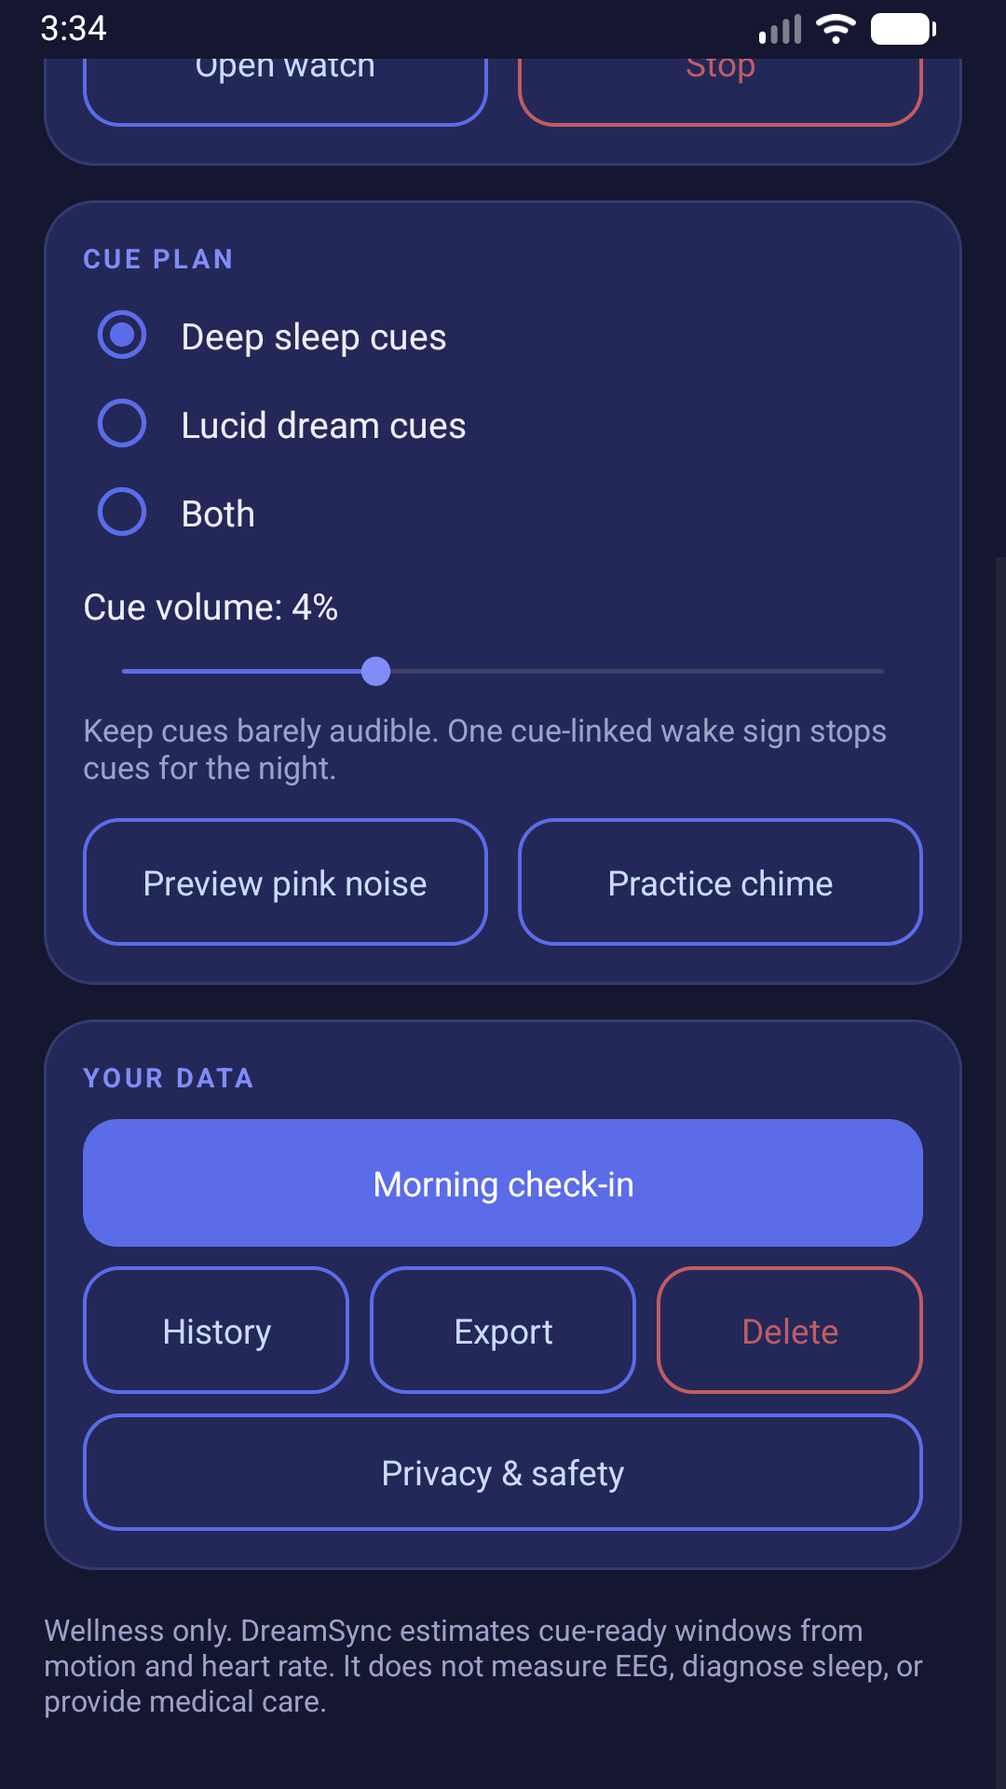
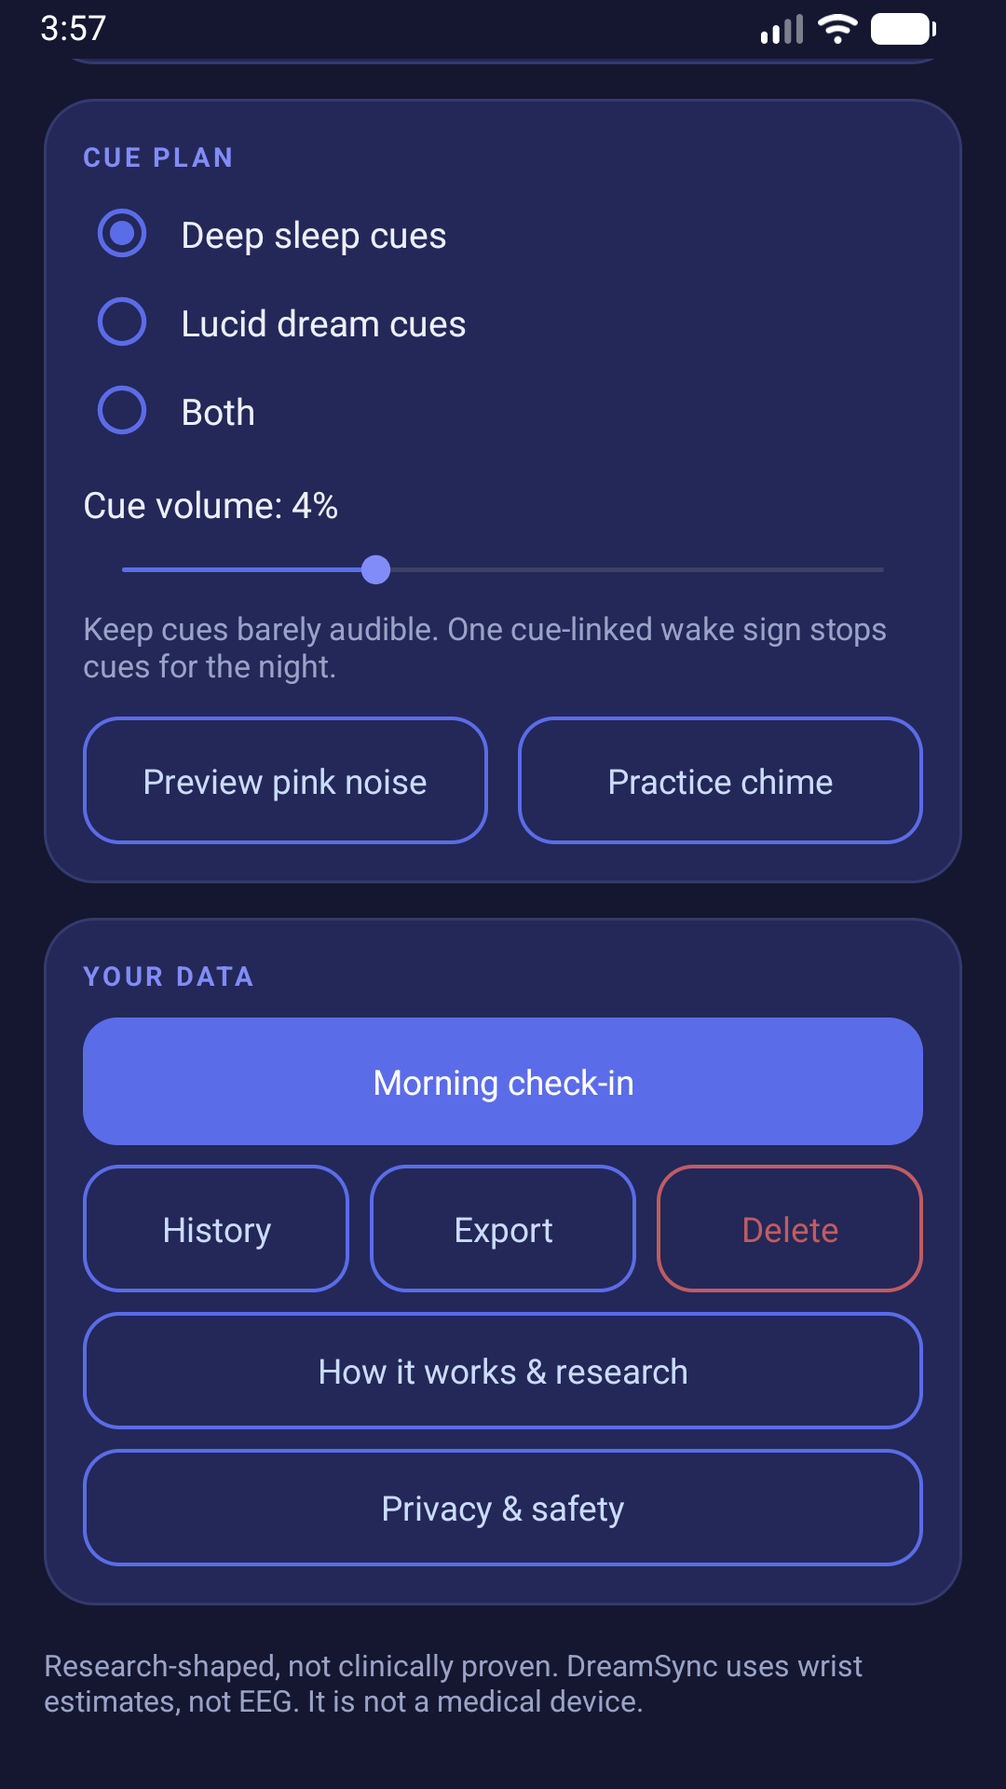
release: add science-based marketing and disclosures

Changed region(s): [[0.0306, 0.0, 0.9778, 0.9688], [0.9472, 0.8438, 0.9778, 0.875]]

diff --git a/phone/src/main/java/com/remote/DreamSync/MainActivity.java b/phone/src/main/java/com/remote/DreamSync/MainActivity.java
@@ -11,12 +11,15 @@ import android.content.pm.PackageManager;
 import android.net.Uri;
 import android.os.Build;
 import android.os.Bundle;
+import android.text.Html;
 import android.text.InputType;
+import android.text.method.LinkMovementMethod;
 import android.view.ViewGroup;
 import android.widget.Button;
 import android.widget.EditText;
 import android.widget.LinearLayout;
 import android.widget.RadioGroup;
+import android.widget.ScrollView;
 import android.widget.SeekBar;
 import android.widget.TextView;
 
@@ -120,6 +123,7 @@ public final class MainActivity extends Activity {
         findViewById(R.id.historyButton).setOnClickListener(v -> showHistory());
         findViewById(R.id.exportButton).setOnClickListener(v -> prepareExport());
         findViewById(R.id.deleteDataButton).setOnClickListener(v -> confirmDeleteAll());
+        findViewById(R.id.scienceButton).setOnClickListener(v -> showScience());
         findViewById(R.id.privacyButton).setOnClickListener(v -> showPrivacyAndSafety());
     }
 
@@ -541,13 +545,51 @@ public final class MainActivity extends Activity {
                 .getBoolean("onboarding_seen", false)) return;
         new AlertDialog.Builder(this)
                 .setTitle("Welcome to DreamSync")
-                .setMessage("DreamSync estimates cue-ready windows from wrist motion and heart rate. "
-                        + "It does not measure EEG, diagnose sleep, guarantee deeper sleep, induce lucid dreams, "
-                        + "or provide medical care. Stop if cues disturb sleep or cause adverse effects. Data stays local unless you export it.")
+                .setMessage("DreamSync is an adult wellness app that estimates conservative cue-ready windows from wrist motion and heart rate. "
+                        + "Its deep cue pattern is shaped by peer-reviewed EEG research, but DreamSync does not measure EEG or reproduce laboratory phase locking. "
+                        + "It is not a medical device and does not diagnose, treat, cure, or prevent any medical condition. "
+                        + "Stop if cues disturb sleep or cause adverse effects, and consult a qualified healthcare professional for medical advice. "
+                        + "Data stays local unless you export it.")
                 .setPositiveButton("I understand", (dialog, which) ->
                         getSharedPreferences(PREFS, MODE_PRIVATE).edit()
                                 .putBoolean("onboarding_seen", true).apply())
                 .setCancelable(false)
+                .show();
+    }
+
+    private void showScience() {
+        TextView content = new TextView(this);
+        int padding = (int) (20 * getResources().getDisplayMetrics().density);
+        content.setPadding(padding, padding, padding, padding);
+        content.setTextColor(getColor(R.color.ds_ice));
+        content.setLinkTextColor(getColor(R.color.ds_violet));
+        content.setTextSize(15f);
+        content.setLineSpacing(0f, 1.2f);
+        content.setMovementMethod(LinkMovementMethod.getInstance());
+        content.setText(Html.fromHtml(
+                "<b>What DreamSync does</b><br>"
+                        + "1. Your watch checks motion, heart-rate freshness, and time since estimated sleep onset.<br>"
+                        + "2. Cues are allowed only after a stable, low-motion period, from 25 to 145 minutes after estimated sleep onset.<br>"
+                        + "3. A deep cue is two 50 ms pink-noise bursts, 1.075 seconds apart, with 5 ms fades.<br>"
+                        + "4. Default deep mode requests no more than 12 paired cues. Any arousal sign starts a 20-minute quiet period. The first cue-linked wake sign stops cues for the night.<br><br>"
+                        + "<b>What the peer-reviewed study found</b><br>"
+                        + "In a randomized crossover laboratory study of 14 healthy young men, EEG phase-locked paired tones increased slow-oscillation power and amplitude without changing time spent in the measured sleep stages. About 172 paired stimulations were delivered on average across 120 minutes. Hormone analyses used 10 to 14 participants, and immune-cell results used a nine-person subset; growth hormone was unchanged. DreamSync does not measure or claim those outcomes.<br><br>"
+                        + "<b>The important difference</b><br>"
+                        + "The laboratory system used EEG, in-ear headphones, and sound calibrated to 50 dB SPL. DreamSync has no EEG, blocks headphone routes, and uses a user-calibrated phone speaker level rather than a laboratory SPL value. It copies the published acoustic pattern, not the phase-locking method. Open-loop research did not show a word-pair memory benefit and some participants noticed the sounds; this is why DreamSync uses fewer, barely audible cues and stops early when waking is detected.<br><br>"
+                        + "Lucid cues are a separate conditioning feature. These studies do not prove that DreamSync causes lucid dreams.<br><br>"
+                        + "<b>Peer-reviewed sources</b><br>"
+                        + "<a href=\"https://doi.org/10.1038/s41467-017-02170-3\">Besedovsky et al., Nature Communications (2017)</a><br>"
+                        + "<a href=\"https://doi.org/10.1016/j.neuron.2013.03.006\">Ngo et al., Neuron (2013)</a><br>"
+                        + "<a href=\"https://doi.org/10.1523/JNEUROSCI.3133-14.2015\">Ngo et al., Journal of Neuroscience (2015)</a><br>"
+                        + "<a href=\"https://doi.org/10.1111/ejn.13334\">Weigenand et al., European Journal of Neuroscience (2016)</a><br><br>"
+                        + "<b>Safety</b><br>DreamSync is not a medical device and does not diagnose, treat, cure, or prevent any medical condition. Consult a qualified healthcare professional for medical advice, diagnosis, or treatment.",
+                Html.FROM_HTML_MODE_LEGACY));
+        ScrollView scroll = new ScrollView(this);
+        scroll.addView(content);
+        new AlertDialog.Builder(this)
+                .setTitle("How DreamSync works")
+                .setView(scroll)
+                .setPositiveButton("Done", null)
                 .show();
     }
 
@@ -557,7 +599,9 @@ public final class MainActivity extends Activity {
                 .setMessage("DreamSync uses motion and heart-rate readings from your watch only to estimate cue-ready windows during a night session. "
                         + "Session history, cue events, check-ins, and dream notes stay on your devices unless you choose Export. "
                         + "DreamSync has no account, ads, analytics, or automatic cloud upload. You can export or delete your data at any time.\n\n"
-                        + "Wellness only: DreamSync does not measure EEG, diagnose sleep, treat a medical condition, or guarantee results. Stop using it if cues disturb your sleep.")
+                        + "Wellness only: DreamSync does not measure EEG or guarantee deeper sleep, memory, immune, or lucid-dream outcomes. "
+                        + "It is not a medical device and does not diagnose, treat, cure, or prevent any medical condition. "
+                        + "Stop using it if cues disturb your sleep, and consult a qualified healthcare professional for medical advice, diagnosis, or treatment.")
                 .setPositiveButton("Done", null)
                 .show();
     }

diff --git a/wear/src/main/java/com/remote/DreamSync/SessionConfig.java b/wear/src/main/java/com/remote/DreamSync/SessionConfig.java
@@ -17,13 +17,13 @@ final class SessionConfig {
     int deepEndMin = 145;
     int remStartMin = 255;
     int sessionEndMin = 510;
-    int deepStableMin = 8;
-    int remStableMin = 3;
-    int deepCueIntervalSec = 15;
-    int deepCuesPerBlock = 8;
+    int deepStableMin = 10;
+    int remStableMin = 5;
+    int deepCueIntervalSec = 30;
+    int deepCuesPerBlock = 6;
     int maxDeepBlocks = 2;
-    int lucidCueIntervalSec = 90;
-    int maxLucidCues = 3;
+    int lucidCueIntervalSec = 180;
+    int maxLucidCues = 2;
 
     static SessionConfig fromJson(String json) {
         SessionConfig config = new SessionConfig();
@@ -59,7 +59,7 @@ final class SessionConfig {
         phoneNodeId = safeIdentifier(phoneNodeId);
         watchNodeId = safeIdentifier(watchNodeId);
         mode = sanitizeMode(mode);
-        cueGain = clampFloat(cueGain, 0.005f, 0.20f);
+        cueGain = clampFloat(cueGain, 0.005f, 0.10f);
         deepStartMin = clampInt(deepStartMin, 10, 120);
         deepEndMin = clampInt(deepEndMin, 60, 300);
         remStartMin = clampInt(remStartMin, 180, 420);

diff --git a/phone/src/main/java/com/remote/DreamSync/CuePlaybackService.java b/phone/src/main/java/com/remote/DreamSync/CuePlaybackService.java
@@ -191,7 +191,7 @@ public final class CuePlaybackService extends Service
     }
 
     private float clampGain(float gain) {
-        return Math.max(0.005f, Math.min(0.20f, gain));
+        return Math.max(0.005f, Math.min(0.10f, gain));
     }
 
     private void startAsForeground() {

diff --git a/docs/play-store/STORE_LISTING.md b/docs/play-store/STORE_LISTING.md
@@ -12,22 +12,39 @@
 
 ## Short description
 
-Sleep-first cues that stop at a wake sign, with private on-device data.
+Sleep-first cues shaped by peer-reviewed studies, with private on-device data.
 
 ## Full description
 
-DreamSync pairs your Android phone with a Wear OS watch to deliver quiet sleep cues during conservative cue-ready windows. Protecting your sleep always takes priority over delivering a cue.
+DreamSync pairs your Android phone with a Wear OS watch to deliver quiet, research-shaped sleep cues during conservative cue-ready windows. Protecting your sleep always takes priority over delivering a cue.
 
-Choose deep sleep cues, lucid dream cues, or both. Set a barely audible volume, open DreamSync on your watch, and start the night. The watch uses motion and heart-rate signals to estimate when cues may be less disruptive. Any arousal sign starts a 20-minute quiet period. The first cue-linked wake sign stops further cues for the night.
+HOW IT WORKS
 
-Deep cues use two brief pink-noise bursts based on published auditory sleep research. DreamSync does not use EEG and cannot reproduce laboratory phase locking, so it makes no sleep-stage or treatment claim.
+Your watch checks motion, heart-rate freshness, and time since estimated sleep onset. DreamSync waits for a stable, low-motion period from 25 to 145 minutes after estimated sleep onset. A deep cue is two 50 millisecond pink-noise bursts, 1.075 seconds apart, with gentle 5 millisecond fades. Default deep mode requests no more than 12 paired cues. Any arousal sign starts a 20-minute quiet period. The first cue-linked wake sign stops further cues for the night.
+
+SCIENCE, CLEARLY STATED
+
+The acoustic pattern comes from peer-reviewed auditory sleep research. In a randomized crossover laboratory study of 14 healthy young men, Besedovsky and colleagues used EEG to phase-lock paired 50 dB pink-noise bursts to slow oscillations during non-REM sleep. About 172 paired stimulations were delivered on average across 120 minutes. The study reported increased slow-oscillation power and amplitude without changing time spent in measured sleep stages. Hormone analyses used 10 to 14 participants; immune-cell results used a nine-person subset; growth hormone was unchanged. DreamSync does not measure or claim those biological outcomes.
+
+Earlier closed-loop studies by Ngo and colleagues reported effects on slow oscillations and memory under EEG control. A later open-loop study by Weigenand and colleagues did not improve word-pair memory, altered other sleep measures, and was noticed by half of its participants. DreamSync therefore makes no memory claim and uses low cue volume, conservative gating, long quiet periods, and immediate stopping after a cue-linked wake sign.
+
+IMPORTANT DIFFERENCE
+
+DreamSync does not measure EEG and cannot reproduce laboratory brain-wave phase locking. The study used in-ear headphones and calibrated 50 dB SPL; DreamSync blocks headphone routes and uses a user-calibrated phone speaker level, not a laboratory SPL value. Wrist motion and heart rate can only estimate conservative cue-ready windows; they do not diagnose a sleep stage. Lucid cues are a separate optional conditioning feature, and the cited studies do not prove that DreamSync causes lucid dreams.
+
+PEER-REVIEWED BASIS
+
+Besedovsky et al. Nature Communications, 2017. DOI: 10.1038/s41467-017-02170-3
+Ngo et al. Neuron, 2013. DOI: 10.1016/j.neuron.2013.03.006
+Ngo et al. Journal of Neuroscience, 2015. DOI: 10.1523/JNEUROSCI.3133-14.2015
+Weigenand et al. European Journal of Neuroscience, 2016. DOI: 10.1111/ejn.13334
 
 Your session history, morning check-ins, and optional dream notes stay on your paired devices unless you choose Export. DreamSync has no accounts, ads, analytics, or automatic cloud upload. You can export or delete your local data at any time.
 
-DreamSync is a wellness tool. It does not diagnose sleep, treat medical conditions, guarantee deeper sleep, or guarantee lucid dreams.
+DreamSync is intended for adults age 18 and older. It is not a medical device and does not diagnose, treat, cure, or prevent any medical condition. It does not guarantee deeper sleep, memory improvement, immune effects, or lucid dreams. Consult a qualified healthcare professional for medical advice, diagnosis, or treatment.
 
 Requires an Android phone and a compatible Wear OS watch with motion sensors. Heart-rate access is required for lucid cue timing.
 
 ## Release notes
 
-DreamSync 1.0 introduces a cleaner guided interface, research-aligned deep-cue timing, clearer health permission disclosure, and local privacy controls.
+DreamSync 1.0 explains its peer-reviewed basis, uses research-shaped deep-cue timing, prioritizes uninterrupted sleep, and keeps personal data on the user's devices.

diff --git a/docs/play-store/MARKETING_PROPOSAL.md b/docs/play-store/MARKETING_PROPOSAL.md
@@ -1,0 +1,74 @@
+# DreamSync Science-Based Google Play Marketing Proposal
+
+## Positioning
+
+DreamSync is the sleep-first cue companion for adults who want a transparent, private way to explore research-shaped auditory cues with a Wear OS watch.
+
+The marketing promise is simple: DreamSync explains what it does, shows the peer-reviewed work that shaped it, and clearly separates laboratory findings from what a consumer watch can estimate.
+
+## Primary message
+
+Sleep-first cues shaped by peer-reviewed studies, with private on-device data.
+
+Supporting points:
+
+- Protecting sleep takes priority over delivering cues.
+- The published acoustic structure is implemented exactly: two 50 ms pink-noise bursts, 1.075 seconds apart, with 5 ms fades.
+- The default app budget is at most 12 paired deep cues, compared with about 172 paired stimulations on average in the 120-minute laboratory protocol.
+- Motion, heart-rate freshness, estimated sleep onset, and time-of-night gates reduce unnecessary cueing.
+- Any arousal starts a 20-minute quiet period; the first cue-linked wake sign ends cueing for the night.
+- Personal data stays on the paired devices unless the user chooses Export.
+
+## Evidence and claim boundaries
+
+### Claims DreamSync can make
+
+- DreamSync plays the published paired-burst acoustic pattern.
+- DreamSync estimates conservative cue-ready windows from wrist motion, heart rate, and elapsed time.
+- DreamSync uses explicit signal-quality, arousal, route, battery, connection, and volume safety gates.
+- DreamSync stores data locally and gives the user export and deletion controls.
+
+### Laboratory findings that may be described only with attribution
+
+- Besedovsky et al. studied 14 healthy young men in a randomized within-subject crossover design.
+- Their EEG phase-locked method increased slow-oscillation power and amplitude.
+- Time spent in measured sleep stages did not significantly change.
+- Hormone analyses used 10 to 14 participants. The study reported cortisol and aldosterone changes; growth hormone was unchanged.
+- Circulating T- and B-cell results came from a nine-person subset.
+- These findings belong to the laboratory method, not to DreamSync.
+
+### Claims DreamSync must not make
+
+- Proven deeper sleep or clinical sleep-stage detection.
+- EEG phase locking.
+- Improved memory, immunity, hormones, or treatment of insomnia or depression.
+- Guaranteed lucid dreams.
+- Medical-device, diagnostic, preventive, curative, or treatment claims.
+
+## Store-page structure
+
+1. Lead with sleep-first behavior and privacy.
+2. Explain the four-step phone-watch workflow in plain language.
+3. State the main study design and results with sample size and attribution.
+4. Explain the EEG-versus-wrist difference immediately after the findings.
+5. List four peer-reviewed sources by author, journal, year, and DOI.
+6. End with device requirements, adult audience, risks, and the Google Play health disclaimer.
+
+## Screenshot messages
+
+- Sleep-first cues, guided by your watch.
+- Research-shaped paired pink-noise cues.
+- A wake sign stops cueing for the night.
+- Private history, check-ins, export, and deletion.
+- Science and limitations explained inside the app.
+
+## Peer-reviewed sources
+
+1. Besedovsky L, Ngo HVV, Dimitrov S, et al. Auditory closed-loop stimulation of EEG slow oscillations strengthens sleep and signs of its immune-supportive function. *Nature Communications*. 2017;8:1984. DOI: 10.1038/s41467-017-02170-3.
+2. Ngo HVV, Martinetz T, Born J, Molle M. Auditory closed-loop stimulation of the sleep slow oscillation enhances memory. *Neuron*. 2013;78:545-553. DOI: 10.1016/j.neuron.2013.03.006.
+3. Ngo HVV, et al. Driving sleep slow oscillations by auditory closed-loop stimulation - a self-limiting process. *Journal of Neuroscience*. 2015;35:6630-6638. DOI: 10.1523/JNEUROSCI.3133-14.2015.
+4. Weigenand A, Molle M, Werner F, Martinetz T, Marshall L. Timing matters: open-loop stimulation does not improve overnight consolidation of word pairs in humans. *European Journal of Neuroscience*. 2016;44:2357-2368. DOI: 10.1111/ejn.13334.
+
+## Required disclaimer
+
+DreamSync is not a medical device and does not diagnose, treat, cure, or prevent any medical condition. Consult a qualified healthcare professional for medical advice, diagnosis, or treatment.

diff --git a/docs/VERIFICATION_RESULTS.md b/docs/VERIFICATION_RESULTS.md
@@ -11,25 +11,28 @@ Date: 19 July 2026
 - Phone and Wear OS signed release bundles pass.
 - Shared safety checks pass: 9 checks, 0 failures.
 - Phone app installs and launches on Android 16.
-- Onboarding, disclosure, main screen, export, deletion, and privacy controls are present.
+- Onboarding, disclosure, main screen, research explanation, export, deletion, and privacy controls are present.
 - Phone and watch use a single session-bound protocol with duplicate, expiry, version, device, and session rejection.
 - Health data stays local unless the user exports it.
 - One valid cue request can produce at most one playback. Invalid requests produce none.
 - Protecting sleep takes priority: any arousal starts a 20-minute quiet period and the first cue-linked arousal disables further cues for the night.
+- The 10% gain ceiling is enforced in the interface, watch configuration, and phone playback service.
+- Conservative sleep-first fallbacks are enforced even when a saved configuration is missing.
 
 ## Research alignment
 
 - Deep-sleep cue: two 50 ms pink-noise bursts.
 - Pair interval: 1.075 seconds.
 - Fade: 5 ms.
-- Cue window: up to 120 minutes after estimated sleep onset.
+- Cue window: 25 to 145 minutes after estimated sleep onset.
 - Cueing stops when motion, heart-rate quality, connection, route, battery, or arousal safety gates fail.
 - User gain is capped at 10%; the default is 4%.
 - DreamSync estimates cue-ready windows from wrist signals. It does not measure EEG or provide medical care.
+- The in-app research screen maps each design choice to four peer-reviewed studies and states the evidence limits.
+- Public marketing avoids claims of deeper sleep, memory improvement, biological effects, or guaranteed lucid dreams.
 
 ## Still required
 
 - Physical S23+ and Watch Ultra sensor/audio validation.
-- Play Console app-information forms.
-- Public privacy-policy access.
+- Play Console listing and release-asset submission.
 - Google Play closed-release gate: 12 opted-in users for 14 continuous days.

diff --git a/docs/play-store/PRIVACY_POLICY.md b/docs/play-store/PRIVACY_POLICY.md
@@ -8,6 +8,10 @@ DreamSync is published by Remote. This policy explains how the Android phone and
 
 During a night session, DreamSync uses watch motion and heart-rate readings to estimate cue-ready windows. Any arousal sign starts a 20-minute quiet period, and the first cue-linked wake sign stops further cues for the night. The app may also store session history, cue events, morning check-ins, and optional dream notes.
 
+## Research basis and limits
+
+DreamSync copies the paired pink-noise burst structure reported in peer-reviewed auditory sleep research. Those laboratory studies used EEG to phase-lock sounds to brain waves. DreamSync does not measure EEG, diagnose sleep stages, or send data to the study authors. Research results about slow oscillations, memory, hormones, or immune cells are not claims about DreamSync's effects.
+
 ## Local processing
 
 DreamSync processes session data on the user's paired phone and watch. Remote does not operate a DreamSync server and does not receive health readings, session history, check-ins, or dream notes. DreamSync has no account system, ads, analytics, or automatic cloud upload.
@@ -28,7 +32,7 @@ Export creates a local file only after the user chooses a destination. Delete re
 
 ## Intended use
 
-DreamSync is a wellness tool for adults. It does not measure EEG, diagnose sleep, treat a medical condition, or guarantee deeper sleep or lucid dreams.
+DreamSync is an adult wellness tool, not a medical device. It does not measure EEG; diagnose, treat, cure, or prevent any medical condition; or guarantee deeper sleep, memory, immune, or lucid-dream outcomes. Stop using DreamSync if cues disturb sleep or cause adverse effects. Consult a qualified healthcare professional for medical advice, diagnosis, or treatment.
 
 ## Contact
 

diff --git a/README.md b/README.md
@@ -14,6 +14,12 @@ DreamSync does not measure EEG, diagnose sleep, treat a medical condition, guara
 
 Source: Besedovsky et al., *Nature Communications* 8, 1984 (2017), DOI `10.1038/s41467-017-02170-3`. The supplied article is preserved at `docs/sleep study data.docx`.
 
+Related peer-reviewed evidence and limits:
+
+- Ngo et al., *Neuron* 78, 545-553 (2013), DOI `10.1016/j.neuron.2013.03.006`.
+- Ngo et al., *Journal of Neuroscience* 35, 6630-6638 (2015), DOI `10.1523/JNEUROSCI.3133-14.2015`.
+- Weigenand et al., *European Journal of Neuroscience* 44, 2357-2368 (2016), DOI `10.1111/ejn.13334`. Its open-loop null result is why DreamSync makes no memory claim.
+
 ## Safety and reliability
 
 - One session binds one reachable phone and watch.
